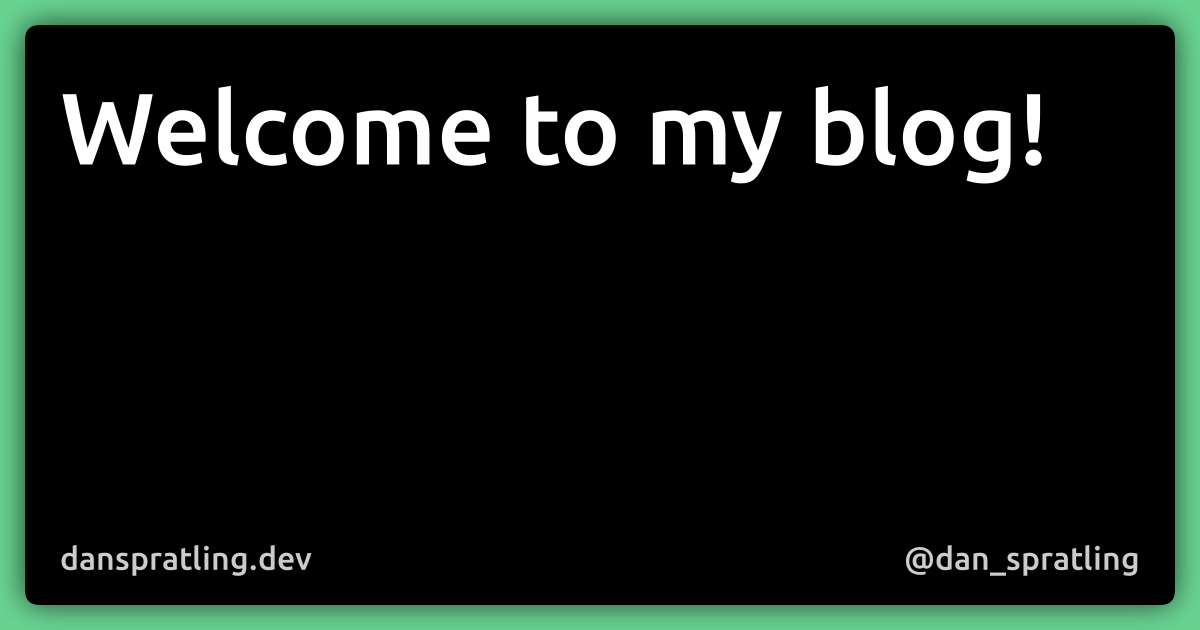
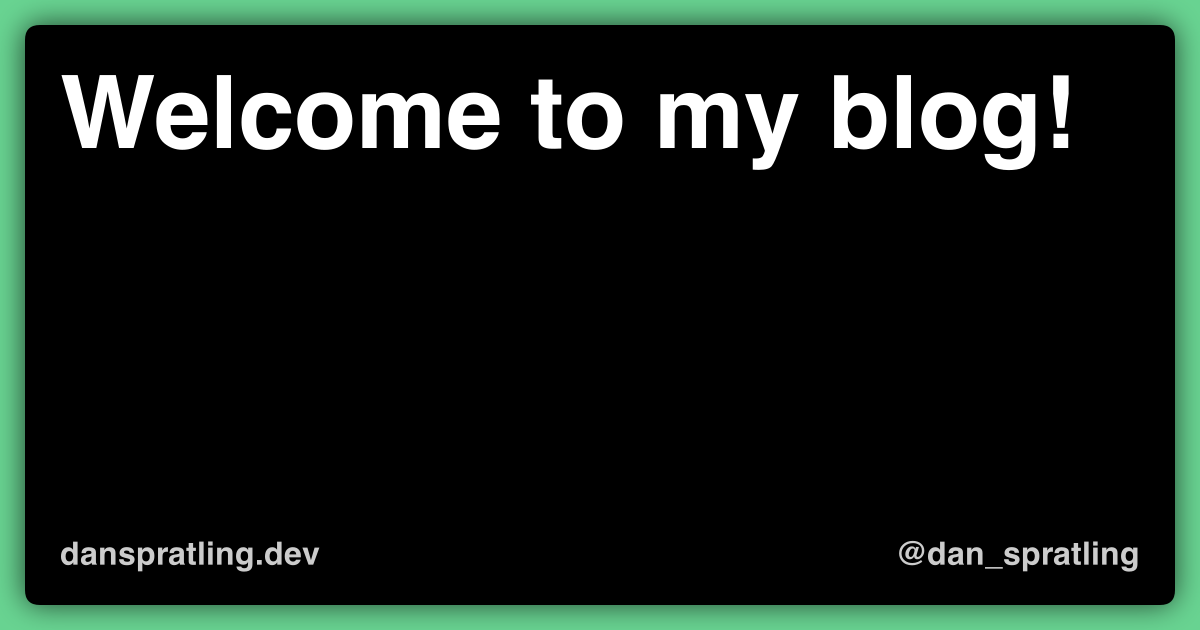
Uses roboto instead of ubuntu or fallback system font

Changed region(s): [[0.0308, 0.1206, 0.8942, 0.3016], [0.74, 0.8444, 0.9558, 0.9349], [0.0308, 0.8444, 0.2775, 0.9048]]

diff --git a/functions/socialImage.js b/functions/socialImage.js
@@ -2,11 +2,6 @@ const fs = require('fs')
 const { registerFont, createCanvas } = require('canvas')
 
 function generateImage({ title, slug }) {
-  registerFont('static/fonts/ubuntu/4iCv6KVjbNBYlgoCjC3jsGyL.woff', {
-    family: 'Ubuntu',
-    weight: '700',
-  })
-
   //define canvas size
   let width = 1200
   let height = 630
@@ -34,7 +29,7 @@ function generateImage({ title, slug }) {
 
   //set the copy style
   // context.font = 'bold 82pt Ubuntu'
-  context.font = '700 76pt Ubuntu'
+  context.font = 'semibold 76pt Roboto'
   context.textAlign = 'left'
   context.textBaseline = 'top'
   context.fillStyle = '#fff'
@@ -71,12 +66,12 @@ function generateImage({ title, slug }) {
 
   //insert domain
   context.fillStyle = '#ccc'
-  context.font = '700 24pt Ubuntu'
+  context.font = 'semibold 24pt Roboto'
   context.fillText('danspratling.dev', 60, 540)
 
   //insert domain
   context.fillStyle = '#ccc'
-  context.font = '700 24pt Ubuntu'
+  context.font = 'semibold 24pt Roboto'
   context.textAlign = 'right'
   context.fillText('@dan_spratling', 1140, 540)
 
